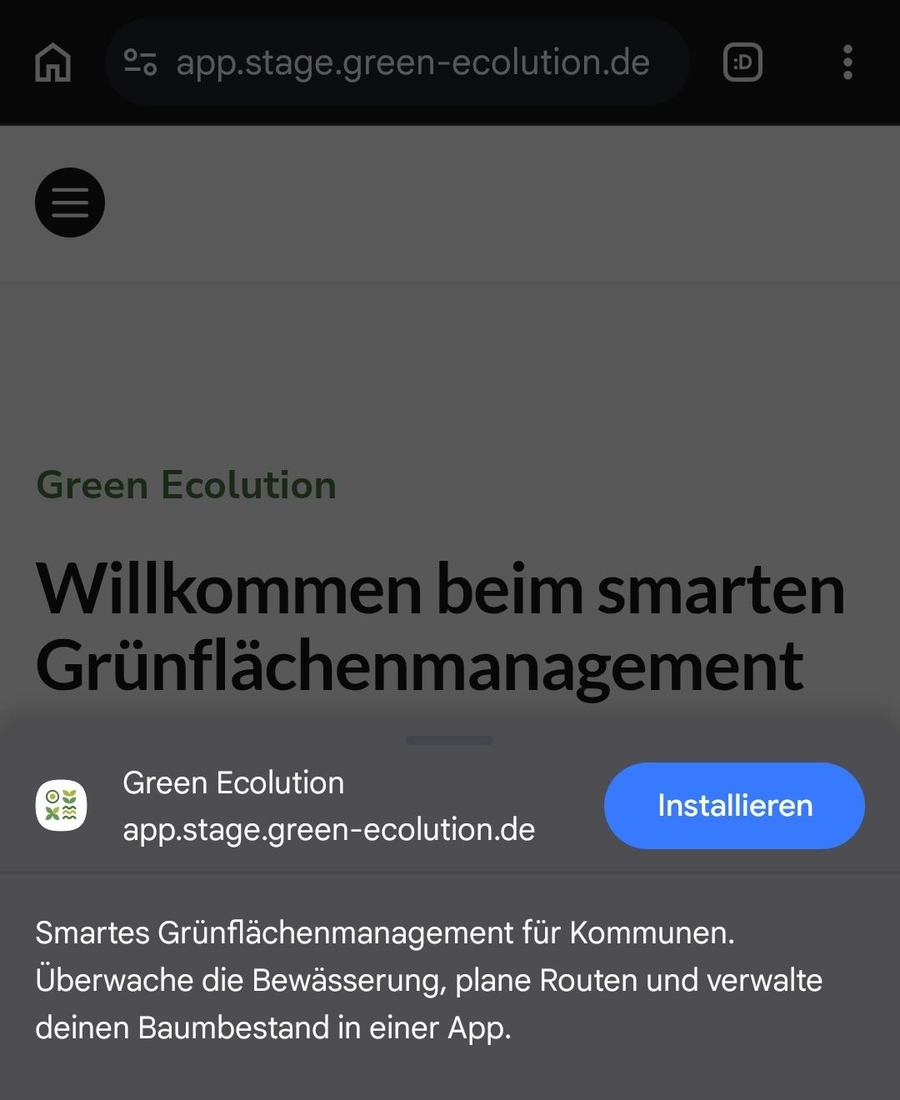
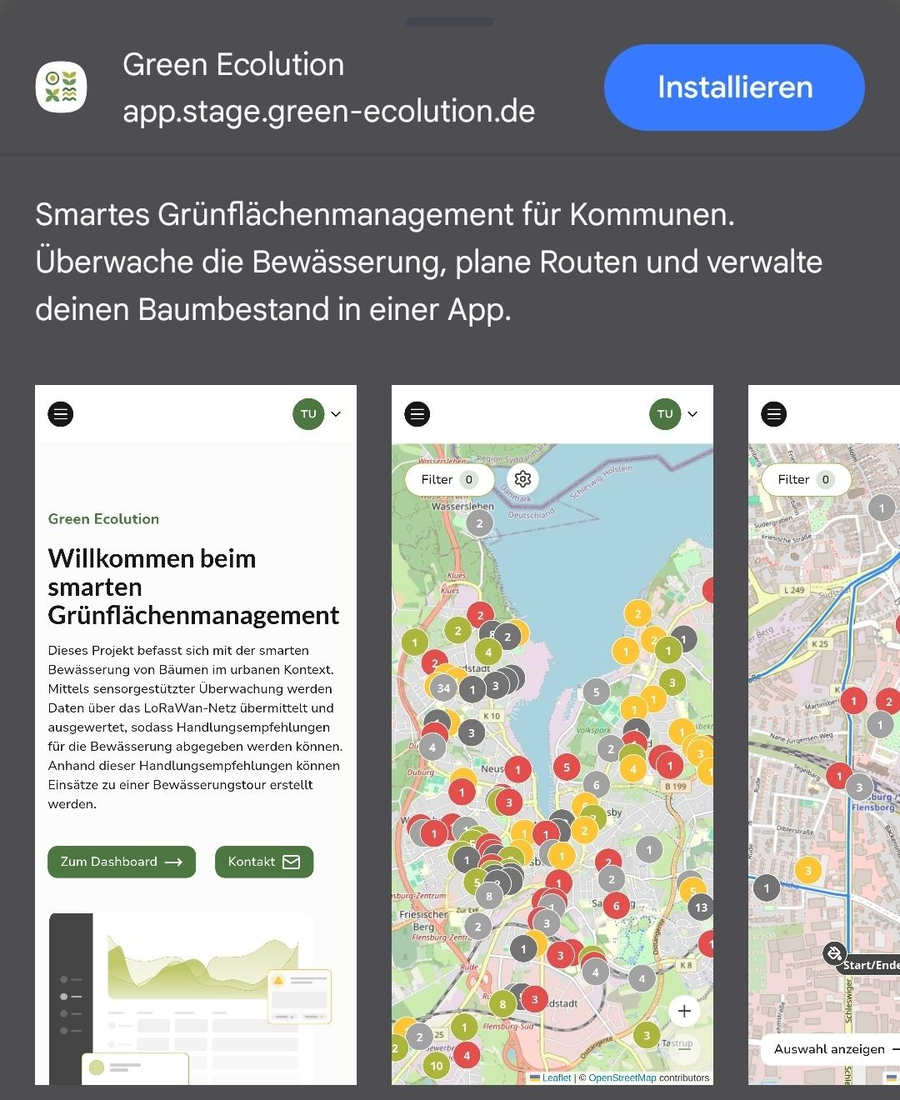
docs(handbook): show the whole Android install prompt in the figure

diff --git a/frontend/handbook/images/README.md b/frontend/handbook/images/README.md
@@ -53,7 +53,10 @@ out next to the rest:
   activation is done at the tree) and `install-android.png`. Portrait is capped at
   900×1100 because the PDF scales every figure to the full text width, so a phone's
   native 9:19.5 frame would render taller than the page. Crop a phone screenshot around
-  the menu or prompt to reach that size; don't squash the whole screen into it.
+  the menu or prompt to reach that size; don't squash the whole screen into it. Crop the
+  whole prompt, though: `install-android.png` starts at the top edge of Chrome's install
+  sheet and keeps it complete down to the app previews, so the figure shows the dialog
+  the reader sees and not just its first half.
 - `install-ios-safari.png` is the one figure built from several phone screenshots: three
   panels side by side, one per step, each cropped from a 1290 px wide capture and all
   scaled by the same factor so the iOS interface reads at one size across the figure.
@@ -84,7 +87,7 @@ out next to the rest:
 | `app-shell.png`              | 1440×900  | Erste Schritte (`getting-started`)                | Any page with the sidebar expanded (not collapsed to icons), the breadcrumb trail visible in the header, and the user avatar/menu visible at the bottom of the sidebar.                                                                                                                                                                                                                                                      |
 | `install-desktop-chrome.png` | 1440×900  | Erste Schritte (`getting-started`)                | Desktop Chrome or Edge with the install icon visible in the address bar and its "Green Ecolution installieren" confirmation popover open. Browser chrome IS part of this shot — the address bar is the subject — so capture the window, not just the viewport.                                                                                                                                                               |
 | `install-ios-safari.png`     | 1440×815  | Erste Schritte (`getting-started`)                | Three panels side by side, matching the three numbered steps in the chapter: Safari's menu with **Teilen**, the share sheet scrolled so **Zum Home-Bildschirm** is in the list, and the "Zum Home-Bildschirm" dialog with **Hinzufügen**. Shot on an iPhone in German iOS interface language.                                                                                                                                                                                                                                                  |
-| `install-android.png`        | 900×1100  | Erste Schritte (`getting-started`)                | Chrome on Android showing the in-app install prompt with the "Installieren" button — easiest to trigger on the sensor activation QR screen.                                                                                                                                                                                                                                                                                  |
+| `install-android.png`        | 900×1100  | Erste Schritte (`getting-started`)                | Chrome on Android showing the in-app install prompt with the "Installieren" button — easiest to trigger on the sensor activation QR screen. Frame the sheet itself, from its top edge down through the app previews; the dimmed page and the address bar above it are not the subject.                                                                                                                                                                                                                                                                                  |
 | `dashboard.png`              | 1440×900  | Das Dashboard (`dashboard`)                       | The personal dashboard with the greeting and all six tiles under "Schnellverweise" filled in and readable, for a user who can open every tile.                                                                                                                                                                                                                                                                               |
 | `map-overview.png`           | 1440×900  | Die Karte (`map`)                                 | The map zoomed to a level where several tree clusters are visible as coloured outlines with a mix of individual trees and grouped markers, no side panel or legend open.                                                                                                                                                                                                                                                     |
 | `map-legend.png`             | 1440×900  | Die Karte (`map`)                                 | The map with the "Bewässerungsstatus" legend open (via the question-mark button, bottom left), showing all five status entries with their actual colours.                                                                                                                                                                                                                                                                    |
